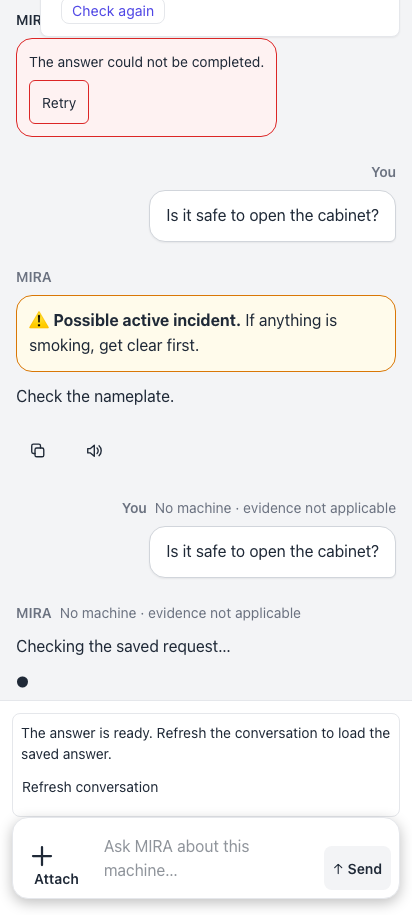
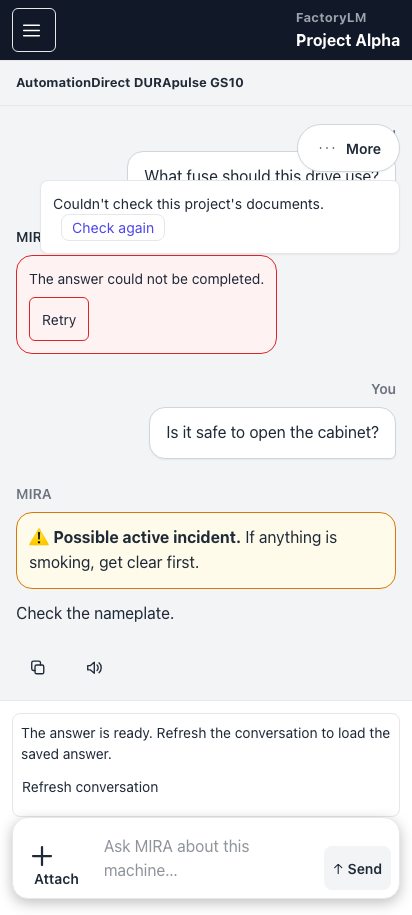
fix(hub): render one exchange while its saved request catches up (#5669)

diff --git a/mira-hub/tests/recovery-browser/recovery.spec.ts b/mira-hub/tests/recovery-browser/recovery.spec.ts
@@ -313,7 +313,96 @@ test.describe("human photo requirement: a changed photo Retry says so; one expli
       await chat(page).end();
       await expect(conv(page).getByText("Possible active incident").first()).toBeVisible();
       await expect(conv(page).getByText(QUESTION)).toHaveCount(1);   // the old failed exchange was not rewritten or retired
+      // ONE logical request = ONE visible question/answer: the retained confirmed exchange must not sprout a second
+      // "Checking the saved request…" copy while the saved row has not been read yet (stale detail, 404 status).
+      await expect(page.getByRole("button", { name: "Send" })).toBeVisible();
+      await page.waitForTimeout(500);
+      await expect(conv(page).getByText("Is it safe to open the cabinet?")).toHaveCount(1);
+      await expect(conv(page).getByText("Check the nameplate.")).toHaveCount(1);
+      await expect(conv(page).getByText("Checking the saved request")).toHaveCount(0);
+      expect(await pointerPresent(page, asked.clientRequestId as string)).toBe(true);
       await shot(page, `2026-11-26_new-question-after-changed-photo-shows-current-hazard${withWarning ? "-with-original-warning" : ""}`, info);
     });
   }
+});
+
+const NEW_Q = "Is the cabinet fan supposed to run all the time?";
+const NEW_A = "Yes, the cabinet fan runs continuously while the drive is powered.";
+async function sendNew(page: Page, text = NEW_Q) {
+  await page.getByRole("textbox", { name: "Ask MIRA" }).fill(text);
+  await page.getByRole("button", { name: "Send" }).click();
+  await expect.poll(async () => (await chat(page).calls()).length).toBe(1);
+  const id = (await chat(page).calls())[0]!.clientRequestId as string;
+  await chat(page).push(frame({ kind: "content", content: NEW_A }));
+  await chat(page).push(frame({ kind: "status", status: "answered" }));
+  await chat(page).end();
+  await expect(page.getByRole("button", { name: "Send" })).toBeVisible();
+  return id;
+}
+const exactlyOnce = async (page: Page) => {
+  await expect(conv(page).getByText(NEW_Q)).toHaveCount(1);
+  await expect(conv(page).getByText(NEW_A)).toHaveCount(1);
+  await expect(conv(page).getByText("Checking the saved request")).toHaveCount(0);
+};
+
+test.describe("one logical request is ONE visible question/answer (whole class, ordinary Send)", () => {
+  test("stale detail + 404 status after a completed Send: no second placeholder (also after 12 s); pointer kept; a FRESH matching row takes over once and retires it", async ({ page, context, baseURL }, info) => {
+    const fx = fresh({ turns: [] });
+    await mount(context, page, baseURL!, fx);
+    await open(page);
+    const id = await sendNew(page);
+    await page.waitForTimeout(500);
+    await exactlyOnce(page);
+    await page.waitForTimeout(12_000);   // beyond the follower's polls: still stale/404 everywhere
+    await exactlyOnce(page);
+    expect(await pointerPresent(page, id)).toBe(true);
+    await shot(page, "2026-11-26_one-question-one-answer-while-saved-row-pending", info);
+    const completed = row("t-new", id, { question: NEW_Q, answerStatus: "answered", answerText: NEW_A });
+    fx.turns = [completed]; fx.pinned[id] = completed;
+    fx.statuses[id] = status(id, { state: "complete", answerStatus: "answered", canRetry: false, question: NEW_Q });
+    await expect.poll(() => pointerPresent(page, id), { timeout: 20_000 }).toBe(false);
+    await exactlyOnce(page);
+    expect((await chat(page).calls()).length).toBe(1);
+  });
+
+  test("a STALE failed row/status for the new request id never replaces or duplicates the confirmed answer; the pointer waits for the matching FRESH row", async ({ page, context, baseURL }) => {
+    const fx = fresh({ turns: [] });
+    await mount(context, page, baseURL!, fx);
+    await open(page);
+    const id = await sendNew(page);
+    fx.turns = [row("t-new", id, { question: NEW_Q, answerStatus: "error", answerText: null })];
+    fx.statuses[id] = status(id, { state: "complete", answerStatus: "error", canRetry: true, question: NEW_Q });
+    fx.pinned[id] = fx.turns[0]!;
+    await page.waitForTimeout(6000);
+    await expect(conv(page).getByText(NEW_Q)).toHaveCount(1);
+    await expect(conv(page).getByText(NEW_A)).toHaveCount(1);
+    await expect(conv(page).getByText("Checking the saved request")).toHaveCount(0);
+    expect(await pointerPresent(page, id)).toBe(true);
+    const completed = row("t-new", id, { question: NEW_Q, answerStatus: "answered", answerText: NEW_A });
+    fx.turns = [completed]; fx.pinned[id] = completed;
+    fx.statuses[id] = status(id, { state: "complete", answerStatus: "answered", canRetry: false, question: NEW_Q });
+    await expect.poll(() => pointerPresent(page, id), { timeout: 20_000 }).toBe(false);
+    await exactlyOnce(page);
+    expect((await chat(page).calls()).length).toBe(1);
+  });
+
+  test("unrelated requests are untouched: another unresolved request keeps its own single placeholder/Retry, the old failed exchange stays once, the newer draft survives", async ({ page, context, baseURL }) => {
+    const OTHER = "55555555-5555-4555-8555-555555555555";
+    const OTHER_Q = "Why does the keypad show F004?";
+    const failed = row("t-fail", OLD_REQ, { question: QUESTION, answerStatus: "error", answerText: null });
+    const fx = fresh({ turns: [failed], statuses: { [OTHER]: status(OTHER, { question: OTHER_Q, state: "interrupted", canRetry: true }) } });
+    await mount(context, page, baseURL!, fx, [{ req: OTHER, question: OTHER_Q }]);
+    await open(page);
+    await expect(conv(page).getByText(OTHER_Q)).toHaveCount(1);
+    const id = await sendNew(page);
+    await page.waitForTimeout(500);
+    await exactlyOnce(page);
+    await expect(conv(page).getByText(OTHER_Q)).toHaveCount(1);
+    await expect(conv(page).getByText(QUESTION)).toHaveCount(1);
+    expect(await pointerPresent(page, OTHER)).toBe(true); expect(await pointerPresent(page, id)).toBe(true);
+    await page.getByRole("textbox", { name: "Ask MIRA" }).fill("draft typed afterwards");
+    await page.waitForTimeout(1500);
+    await expect(page.getByRole("textbox", { name: "Ask MIRA" })).toHaveValue("draft typed afterwards");
+    expect((await chat(page).calls()).length).toBe(1);
+  });
 });

diff --git a/mira-hub/src/factorylm-ui/hub-host.tsx b/mira-hub/src/factorylm-ui/hub-host.tsx
@@ -131,6 +131,8 @@ import {
   mergeTurnRows,
   rowConfirmsStreamOutcome,
   pinsAfterDetailLoad,
+  placeholderRequestIds,
+  retriesOnRepresentingExchange,
   withStoppedExchangeRetry,
   recoveryRetryList,
 } from "./hub-host-logic";
@@ -699,8 +701,10 @@ export function HubShellHost() {
   // reads interrupted + retryable, Retry attaches to that exchange (partial text kept, same
   // request id). Another request's observation never reaches it; nothing is sent until a click.
   const recoveryRetries = useMemo(
-    () => !busy && detail ? recoveryRetryList(recoveries, live ? { ...live, requestId: live.clientRequestId } : null, { equipmentEntityId: detail.notebook.asset?.entityId ?? null, componentId: headerComponentId, notebook: detail.notebook }) : [],
-    [recoveries, busy, live, detail, headerComponentId],
+    () => !busy && detail ? retriesOnRepresentingExchange(
+      recoveryRetryList(recoveries, live ? { ...live, requestId: live.clientRequestId } : null, { equipmentEntityId: detail.notebook.asset?.entityId ?? null, componentId: headerComponentId, notebook: detail.notebook }),
+      live, retainedExchanges) : [],
+    [recoveries, busy, live, detail, headerComponentId, retainedExchanges],
   );
 
   const visibleRetained = useMemo(
@@ -769,20 +773,23 @@ export function HubShellHost() {
       // read, so an idle Hub still updates once a backgrounded search settles.
       follow?.status ?? detail.manualSearch ?? null,
     );
+    // One logical request, one visible question/answer: the placeholder only stands in for an unrendered request.
+    const represented = placeholderRequestIds(visibleTurns, live, retainedExchanges);
     const recoveredTurns = !busy && !live ? recoveries.flatMap(recovery =>
       recovery.pointer.notebookId === selection.notebookId && recovery.pointer.threadId === selection.threadId
-        && !visibleTurns.some(row => row.clientRequestId === recovery.pointer.requestId)
+        && !represented.has(recovery.pointer.requestId)
       ? threadFromPersisted([{ id: recovery.value?.turnId ?? recovery.pointer.requestId, question: recovery.pointer.question, answerStatus: "error", answerText: null, evidence: [] }], meta).turns.map(turn => turn.role === "assistant" ? {
           ...turn,
           lifecycle: recovery.value?.state === "complete" ? "running" as const : recovery.value?.state !== "pending" && recovery.value !== null || recovery.unavailable ? "failed" as const : "running" as const,
           parts: recoveryRetries.some(retry => retry.requestId === recovery.pointer.requestId) ? turn.parts : [{ type: "text" as const, text: recovery.value?.state === "complete" ? "Loading the saved answer…" : recovery.unavailable ? "Could not confirm the saved request. Your question is kept here; check the connection before sending again." : recovery.value?.state === "interrupted" ? "The saved request was interrupted. Review its original target and attachments before sending again." : "Checking the saved request…" }],
         } : turn) : []) : [];
-    const stoppedRetryId = live && recoveryRetries.some(retry => retry.requestId === live.clientRequestId) ? `${live.id}-a` : null;
-    const withStoppedRetry = withStoppedExchangeRetry(withPersistedRetry(turns, persistedRetry?.answerId ?? null), stoppedRetryId);
+    const exchangeAnswerIds = new Set([...(live ? [`${live.id}-a`] : []), ...(retainedExchanges ?? []).map(exchange => `${exchange.id}-a`)]);
+    const withStoppedRetry = recoveryRetries.filter(retry => exchangeAnswerIds.has(retry.answerId))
+      .reduce((items, retry) => withStoppedExchangeRetry(items, retry.answerId), withPersistedRetry(turns, persistedRetry?.answerId ?? null));
     const projected = recoveryRetries.reduce((items, retry) => withPersistedRetry(items, retry.answerId), [...withStoppedRetry, ...recoveredTurns]);
     const thread = { ...base.thread, turns: projected };
     return shellReducer(state, { type: "hydrate", data: { thread, projects, machines, activeContext: base.activeContext } });
-  }, [state, detail, meta, selection, projects, machines, liveTurns, visibleRetained, exchangeTurns, live, livePersisted, liveReplacesError, persistedByRequest, notebooks, follow, outgoing, settledFollowups, persistedRetry, recoveries, recoveryRetries, busy, visibleTurns]);
+  }, [state, detail, meta, selection, projects, machines, liveTurns, visibleRetained, exchangeTurns, live, livePersisted, liveReplacesError, persistedByRequest, notebooks, follow, outgoing, settledFollowups, persistedRetry, recoveries, recoveryRetries, busy, visibleTurns, retainedExchanges]);
 
 
   // --- the send path: the canonical notebook-chat route, streamed ---

diff --git a/mira-hub/src/factorylm-ui/hub-host-logic.ts b/mira-hub/src/factorylm-ui/hub-host-logic.ts
@@ -1103,6 +1103,39 @@ export function withStoppedExchangeRetry(turns: readonly InteractionTurn[], answ
 }
 
 /**
+ * One logical request has ONE visible question/answer. A saved-request pointer (the recovery placeholder) is only a
+ * stand-in for a request nothing else renders: a saved/pinned row, the live exchange and a retained (already streamed)
+ * exchange all already show it, so the placeholder must not be appended beside them while the saved row is still
+ * unread, stale, pending or 404. The pointer itself is NOT retired by this: only a fresh matching row does that.
+ */
+export function placeholderRequestIds(
+  rows: readonly { clientRequestId?: string | null }[],
+  live: { clientRequestId: string } | null,
+  retained: readonly { clientRequestId: string }[] | undefined,
+): Set<string> {
+  const ids = new Set<string>();
+  for (const row of rows) if (row.clientRequestId) ids.add(row.clientRequestId);
+  if (live) ids.add(live.clientRequestId);
+  for (const exchange of retained ?? []) ids.add(exchange.clientRequestId);
+  return ids;
+}
+
+/**
+ * A retryable observed request whose ONLY visible representation is a live/retained exchange takes its Retry on that
+ * exchange's answer (so suppressing the duplicate placeholder never hides the only Retry).
+ */
+export function retriesOnRepresentingExchange<T extends { answerId: string; requestId: string }>(
+  retries: readonly T[],
+  live: { id: string; clientRequestId: string } | null,
+  retained: readonly { id: string; clientRequestId: string }[] | undefined,
+): T[] {
+  return retries.map(retry => {
+    const exchange = live?.clientRequestId === retry.requestId ? live : retained?.find(item => item.clientRequestId === retry.requestId);
+    return exchange ? { ...retry, answerId: `${exchange.id}-a` } : retry;
+  });
+}
+
+/**
  * Which observed recoveries may offer Retry. With no live exchange it is each retryable request that still matches
  * the target the technician is looking at. While a live exchange exists, ONLY that exchange's own request, once
  * stopped and read interrupted, is offered (on the live exchange); any other request's observation is ignored.

diff --git a/mira-hub/src/factorylm-ui/round4-recovery-logic.test.ts b/mira-hub/src/factorylm-ui/round4-recovery-logic.test.ts
@@ -116,3 +116,20 @@ describe("F10 which observed recoveries may offer Retry", () => {
     expect(recoveryRetryList([observed("A"), observed("B", { target: { kind: "known", equipmentEntityId: "B" } })], null, here).map(r => r.requestId)).toEqual(["A"]);
   });
 });
+
+describe("one logical request = ONE visible question/answer (placeholder precedence)", () => {
+  it("a saved row, the live exchange and a retained exchange each stand in for the request; an unrelated pointer does not", async () => {
+    const { placeholderRequestIds } = await import("./hub-host-logic");
+    const ids = placeholderRequestIds([{ clientRequestId: "saved" }, { clientRequestId: null }, {}], { clientRequestId: "live" }, [{ clientRequestId: "retained" }]);
+    expect([...ids].sort()).toEqual(["live", "retained", "saved"]);
+    expect(ids.has("unrelated-pointer")).toBe(false);
+    expect([...placeholderRequestIds([], null, undefined)]).toEqual([]);
+  });
+  it("Retry for a request whose ONLY representation is a retained/live exchange moves onto that exchange's answer; others keep theirs", async () => {
+    const { retriesOnRepresentingExchange } = await import("./hub-host-logic");
+    const retries = [{ answerId: "turn-A-a", requestId: "A", question: "qa" }, { answerId: "turn-B-a", requestId: "B", question: "qb" }, { answerId: "turn-C-a", requestId: "C", question: "qc" }];
+    const out = retriesOnRepresentingExchange(retries, { id: "live-1", clientRequestId: "A" }, [{ id: "live-9", clientRequestId: "B" }]);
+    expect(out.map(r => [r.requestId, r.answerId])).toEqual([["A", "live-1-a"], ["B", "live-9-a"], ["C", "turn-C-a"]]);
+    expect(retriesOnRepresentingExchange(retries, null, undefined)).toEqual(retries);
+  });
+});

diff --git a/wiki/hot.md b/wiki/hot.md
@@ -2305,3 +2305,6 @@ and P0/P1/P2 failures become redacted, fingerprint-deduped GitHub issues. P3 noi
 ## Update — #5669 Recovery human-photo proof done locally (2026-11-26, Bravo)
 - Added real-route+restricted-PG `photo-change.integration.test.ts` (10 cases; profile now 39/39, 0 skip), 2 visible browser cases (browser 14/14, 0 egress), 25-row finding crosswalk, plain "photo changed, ask a new question" note.
 - Final: unit 20406 pass/76 skip/0 fail; tsc 0 new vs c835; lint no worse. Still uncommitted merge of c835 onto d768; parent owns Git/review. Open: Model prerequisite, Recovery review/release; no staging/prod claim. Reports in `.planning/5669-20261126/`.
+
+## Update — #5669 Recovery duplicate-placeholder repair (2026-11-26, Bravo)
+- Independent check found a NEW question shown twice (retained exchange + "Checking the saved request…"). Fixed in `hub-host.tsx`/`hub-host-logic.ts` (placeholder only for unrendered requests; pointer still retired only by a fresh row; Retry stays on the representing exchange). Browser 20/20 (was RED 8 failed before), unit 20484 pass/76 skip, profile 39/39 0 skip, tsc 75=75 vs 3c8444cf9, lint no worse. Uncommitted on deef1348; parent owns Git/review. Open: combined Model prerequisite, Recovery review/release. Report: `.planning/5669-20261126/DUPLICATE-PLACEHOLDER-REPORT.md`.
